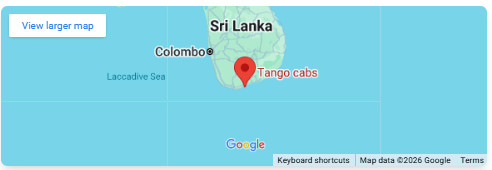
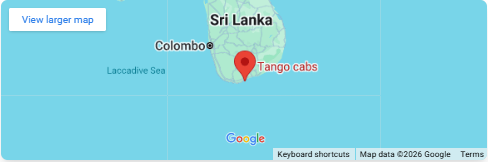
Updated Images

diff --git a/Components/ToursSection/ToursSection.jsx b/Components/ToursSection/ToursSection.jsx
@@ -12,10 +12,10 @@ const ToursSection = () => {
           <h4 className="bg-clip-text text-transparent bg-gradient-to-r from-[#e8bc74] to-[#4d7c9c] font-semibold uppercase tracking-wider">
             Our Tours
           </h4>
-          <h2 className="text-2xl lg:text-4xl font-semibold text-gray-900 leading-tight">
+          <h2 className="text-2xl lg:text-3xl font-semibold text-gray-900 leading-tight">
             Discover Sri Lanka With Tango Cabs & Tours
           </h2>
-          <p className="text-gray-600 text-lg max-w-3xl">
+          <p className="text-gray-600 text-md max-w-3xl">
             Explore the most beautiful corners of Sri Lanka with our curated
             tours and premium cab services. From serene beaches to breathtaking
             mountains, we make every journey safe, comfortable, and
@@ -25,16 +25,26 @@ const ToursSection = () => {
 
         {/* Tours Grid */}
         <div className="grid grid-cols-1 sm:grid-cols-2 lg:grid-cols-3 gap-8">
-          {tours.map((tour, index) => (
-            <div
-              key={tour.id}
-              className={`transition-transform duration-700 delay-${
-                index * 100
-              } ease-out transform hover:-translate-y-2 cupsor-pointer`}
-            >
-              <TourCard tour={tour} />
-            </div>
-          ))}
+          {tours.map((tour, index) => {
+            // Use fixed delay classes (must be in Tailwind safelist)
+            const delayClasses = [
+              "delay-0",
+              "delay-100",
+              "delay-200",
+              "delay-300",
+              "delay-400",
+            ];
+            const delayClass = delayClasses[index % delayClasses.length];
+
+            return (
+              <div
+                key={tour.id}
+                className={`transition-transform duration-700 ${delayClass} ease-out transform hover:-translate-y-2 cursor-pointer`}
+              >
+                <TourCard tour={tour} />
+              </div>
+            );
+          })}
         </div>
       </div>
     </section>

diff --git a/Components/ReviewSection/ReviewSection.jsx b/Components/ReviewSection/ReviewSection.jsx
@@ -50,14 +50,14 @@ const ReviewsSection = () => {
             Traveler Reviews
           </h4>
           <h2
-            className="text-2xl lg:text-4xl font-semibold text-gray-900 leading-tight"
+            className="text-2xl lg:text-3xl font-semibold text-gray-900 leading-tight"
             data-aos="fade-up"
             data-aos-delay="100"
           >
             Hear From Our Happy Travelers
           </h2>
           <p
-            className="text-gray-600 text-lg max-w-3xl"
+            className="text-gray-600 text-md max-w-3xl"
             data-aos="fade-up"
             data-aos-delay="200"
           >
@@ -81,7 +81,7 @@ const ReviewsSection = () => {
           {reviews.map((review, idx) => (
             <SwiperSlide key={idx}>
               <div
-                className="bg-white/80 border-2 border-gray-200 p-6 rounded-lg shadow-lg h-full flex flex-col justify-between"
+                className="bg-white/80 border-2 border-gray-200 p-6 rounded-lg shadow-lg flex flex-col justify-between min-h-[250px]"
                 data-aos="fade-up"
                 data-aos-delay={idx * 100}
               >
@@ -89,7 +89,7 @@ const ReviewsSection = () => {
                   <h3 className="font-semibold text-gray-900">{review.name}</h3>
                   <p className="text-sm text-gray-500">{review.location}</p>
                 </div>
-                <p className="text-gray-700 mb-4">{review.text}</p>
+                <p className="text-gray-700 mb-4 flex-1">{review.text}</p>
                 <div className="flex gap-1">
                   {Array.from({ length: 5 }).map((_, i) => (
                     <span
@@ -103,7 +103,7 @@ const ReviewsSection = () => {
                   ))}
                 </div>
               </div>
-              <div className="pt-18"></div>
+              <div className="pt-10"></div>
             </SwiperSlide>
           ))}
         </Swiper>

diff --git a/Components/Hero/Hero.jsx b/Components/Hero/Hero.jsx
@@ -106,20 +106,20 @@ const Hero = () => {
               {/* Content with AOS vertical animations */}
               <div className="relative z-10 flex flex-col items-center justify-center h-full text-white text-center px-6">
                 <h2
-                  className="text-2xl md:text-3xl font-semibold mb-4 bg-clip-text text-transparent bg-gradient-to-r from-[#e8bc74] to-[#4d7c9c]"
+                  className="text-2xl md:text-2sxl font-semibold mb-4 bg-clip-text text-transparent bg-gradient-to-r from-[#e8bc74] to-[#4d7c9c]"
                   data-aos="fade-up"
                 >
                   Tango Cabs & Tour
                 </h2>
                 <h1
-                  className="text-4xl md:text-6xl font-semibold mb-4"
+                  className="text-4xl md:text-5xl font-semibold mb-4"
                   data-aos="fade-up"
                   data-aos-delay="100"
                 >
                   {slide.title}
                 </h1>
                 <p
-                  className="text-base md:text-lg text-white/85 leading-7 md:leading-8 mb-6 w-[75%]"
+                  className="text-base md:text-md text-white/85 leading-7 md:leading-8 mb-6 w-[75%]"
                   data-aos="fade-up"
                   data-aos-delay="200"
                 >
@@ -127,7 +127,7 @@ const Hero = () => {
                 </p>
                 <a
                   href="/tours"
-                  className="px-6 py-2 md:px-8 md:py-3 rounded-md text-white font-semibold text-base md:text-lg
+                  className="px-6 py-2 md:px-8 md:py-2 rounded-sm text-white font-semibold text-base md:text-lg
                   bg-[linear-gradient(188deg,rgba(79,126,156,1)_0%,rgba(117,156,158,1)_54%,rgba(131,160,153,1)_64%,rgba(144,163,149,1)_70%,rgba(156,166,145,1)_79%,rgba(172,171,139,1)_89%,rgba(232,188,118,1)_100%)]
                   transition-all"
                   data-aos="fade-up"

diff --git a/Components/Nav/Nav.jsx b/Components/Nav/Nav.jsx
@@ -43,7 +43,7 @@ const Nav = () => {
                 key={item.name}
                 href={item.href}
                 className={`
-    relative text-base font-medium transition-colors
+    relative text-base md:text-base font-medium transition-colors
     after:content-[''] after:absolute after:w-0 after:h-[2px]
     after:left-0 after:-bottom-1 after:transition-all after:duration-300
     after:bg-[linear-gradient(188deg,rgba(79,126,156,1)_0%,rgba(117,156,158,1)_54%,rgba(144,163,149,1)_79%,rgba(172,171,139,1)_90%,rgba(232,188,118,1)_100%)]
@@ -65,7 +65,7 @@ const Nav = () => {
             {/* Desktop Button */}
             <a
               href="tel:+94777266518"
-              className="hidden lg:flex items-center justify-center px-6 py-2 rounded-md text-white font-semibold
+              className="hidden lg:flex items-center justify-center px-6 py-2 rounded-sm text-white font-semibold
              bg-[linear-gradient(188deg,rgba(79,126,156,1)_0%,rgba(117,156,158,1)_54%,rgba(144,163,149,1)_79%,rgba(172,171,139,1)_90%,rgba(232,188,118,1)_100%)]
              hover:opacity-90 transition"
             >
@@ -104,7 +104,7 @@ const Nav = () => {
             {/* Mobile Call Button */}
             <a
               href="tel:+94777266518"
-              className="w-full h-11 rounded-md text-white text-sm font-semibold flex items-center justify-center
+              className="w-full h-11 rounded-sm text-white text-sm font-semibold flex items-center justify-center
               bg-[linear-gradient(189deg,rgba(77,124,156,1)0%,rgba(89,129,153,1)35%,rgba(132,147,142,1)100%,rgba(232,188,116,1)100%)]
               hover:opacity-90 transition"
             >

diff --git a/Components/TourCard/TourCard.jsx b/Components/TourCard/TourCard.jsx
@@ -73,7 +73,7 @@ const TourCard = ({ tour }) => {
             )}`}
             target="_blank"
             rel="noopener noreferrer"
-            className="w-full sm:flex-1 flex items-center justify-center gap-2 px-4 py-2 rounded-md font-semibold text-white text-sm
+            className="w-full sm:flex-1 flex items-center justify-center gap-2 px-4 py-2 rounded-sm font-semibold text-white text-sm
   bg-[linear-gradient(191deg,rgba(79,126,156,1)_12%,rgba(120,157,157,1)_64%,rgba(130,160,153,1)_78%,rgba(232,188,118,1)_100%)]
   hover:opacity-90 transition"
           >
@@ -83,13 +83,15 @@ const TourCard = ({ tour }) => {
           {/* Details */}
           <Link
             href={`/tours/${tour.id}`}
-            className="w-full sm:flex-1 flex items-center justify-center border-2 border-[#4d7c9c] text-[#4d7c9c]
-      px-4 py-2 rounded-md font-semibold text-sm
-      transition-all duration-300
-      hover:text-white
-      hover:border-transparent
-      hover:bg-[linear-gradient(191deg,rgba(79,126,156,1)_12%,rgba(232,188,118,1)_100%)]"
+            className="w-full sm:flex-1 flex items-center justify-center
+             border-1 border-[#4d7c9c] text-[#4d7c9c]
+             px-4 py-2 rounded-sm font-semibold text-sm
+             transition-all duration-300
+             hover:text-white
+             hover:bg-[#4d7c9c]
+             hover:border-transparent"
           >
+            {" "}
             View Details
           </Link>
         </div>

diff --git a/Components/AboutUs/AboutUs.jsx b/Components/AboutUs/AboutUs.jsx
@@ -28,7 +28,7 @@ export default function AboutUs() {
             </h4>
 
             <h1
-              className="text-2xl lg:text-4xl font-semibold text-gray-900 leading-tight"
+              className="text-2xl lg:text-3xl font-semibold text-gray-900 leading-tight"
               data-aos="fade-up"
               data-aos-delay="100"
             >
@@ -38,7 +38,7 @@ export default function AboutUs() {
             </h1>
 
             <div
-              className="space-y-4 text-gray-600 text-lg"
+              className="space-y-4 text-gray-600 text-md"
               data-aos="fade-up"
               data-aos-delay="200"
             >
@@ -58,7 +58,7 @@ export default function AboutUs() {
 
             <a
               href="tel:+94777266518"
-              className="inline-flex items-center justify-center px-5 py-3 md:px-6 md:py-3 rounded-md text-white font-semibold text-sm md:text-base
+              className="inline-flex items-center justify-center px-5 py-3 md:px-6 md:py-3 rounded-sm text-white font-semibold text-sm md:text-base
     bg-[linear-gradient(188deg,rgba(79,126,156,1)_0%,rgba(117,156,158,1)_54%,rgba(131,160,153,1)_64%,rgba(144,163,149,1)_70%,rgba(156,166,145,1)_79%,rgba(172,171,139,1)_89%,rgba(232,188,118,1)_100%)]
     hover:bg-[linear-gradient(188deg,#4d7c9c_0%,#e8bc74_100%)]
     transition-colors duration-500"

diff --git a/Components/GetInTouchSection/GetInTouchSection.jsx b/Components/GetInTouchSection/GetInTouchSection.jsx
@@ -115,14 +115,14 @@ const GetInTouchSection = () => {
         {/* Header */}
         <div className="space-y-4 mb-12">
           <h2
-            className="text-2xl lg:text-4xl font-semibold text-gray-900 leading-tight"
+            className="text-2xl lg:text-3xl font-semibold text-gray-900 leading-tight"
             data-aos="fade-up"
             data-aos-delay="100"
           >
             Get in Touch
           </h2>
           <p
-            className="text-gray-600 text-lg max-w-3xl"
+            className="text-gray-600 text-md max-w-3xl"
             data-aos="fade-up"
             data-aos-delay="200"
           >
@@ -218,7 +218,7 @@ const GetInTouchSection = () => {
                 type="submit"
                 className="px-8 cursor-pointer py-3 md:px-12 md:py-3 text-white font-semibold text-sm md:text-lg
                   bg-[linear-gradient(189deg,rgba(77,124,156,1)_0%,rgba(89,129,153,1)_35%,rgba(132,147,142,1)_100%,rgba(232,188,116,1)_100%)]
-                  hover:opacity-90 hover:scale-[1.02] transition-transform transform rounded-lg"
+                  hover:opacity-90 hover:scale-[1.02] transition-transform transform rounded-sm"
               >
                 Send Message
               </button>

diff --git a/Components/CustomTourBookingForm/CustomTourBookingForm.jsx b/Components/CustomTourBookingForm/CustomTourBookingForm.jsx
@@ -300,7 +300,7 @@ const Input = ({ icon, label, error, touched, placeholder, ...props }) => {
         <input
           {...props}
           placeholder={placeholder}
-          className={`w-full px-4 py-3 rounded-lg border-2 outline-none transition ${
+          className={`w-full px-4 py-3 rounded-lg border-1 outline-none transition ${
             showError
               ? "border-red-500 bg-red-50"
               : "border-gray-300 focus:border-[#4d7c9c] focus:ring-[#4d7c9c]/20"
@@ -333,7 +333,7 @@ const Textarea = ({ label, error, touched, placeholder, ...props }) => {
           {...props}
           placeholder={placeholder}
           rows={3}
-          className={`w-full px-4 py-3 rounded-lg border-2 outline-none transition resize-none ${
+          className={`w-full px-4 py-3 rounded-lg border-1 outline-none transition resize-none ${
             showError
               ? "border-red-500 bg-red-50"
               : "border-gray-300 focus:border-[#4d7c9c] focus:ring-[#4d7c9c]/20"

diff --git a/Components/Loader/Loader.jsx b/Components/Loader/Loader.jsx
@@ -18,7 +18,7 @@ const Loader = () => {
 
   return (
     <div className="fixed inset-0 bg-white flex items-center justify-center z-[9999]">
-      <div className="relative w-48 h-48 flex items-center justify-center">
+      <div className="relative w-40 h-40 flex items-center justify-center">
         {/* Logo */}
         <Image
           src="/logo.jpeg" // replace with your logo path
@@ -28,7 +28,7 @@ const Loader = () => {
         />
 
         {/* Spinning ring */}
-        <span className="absolute w-48 h-48 rounded-full border-4 border-[#2e4a5e] border-t-transparent animate-spin"></span>
+        <span className="absolute w-40 h-40 rounded-full border-4 border-[#2e4a5e] border-t-transparent animate-spin"></span>
       </div>
     </div>
   );

diff --git a/Components/VehiclesSection/VehiclesSection.jsx b/Components/VehiclesSection/VehiclesSection.jsx
@@ -93,14 +93,14 @@ const VehiclesSection = () => {
             Our Vehicles
           </h4>
           <h2
-            className="text-2xl lg:text-4xl font-semibold text-gray-900 leading-tight"
+            className="text-2xl lg:text-3xl font-semibold text-gray-900 leading-tight"
             data-aos="fade-up"
             data-aos-delay="100"
           >
             Premium Cars & Cabs For Your Journey
           </h2>
           <p
-            className="text-gray-600 text-lg max-w-3xl"
+            className="text-gray-600 text-md max-w-3xl"
             data-aos="fade-up"
             data-aos-delay="200"
           >

diff --git a/Components/WhatWeOffer/WhatWeOffer.jsx b/Components/WhatWeOffer/WhatWeOffer.jsx
@@ -68,7 +68,7 @@ export default function WhatWeOffer() {
           </h4>
 
           <h2
-            className="text-2xl lg:text-4xl font-semibold text-gray-900 mt-3"
+            className="text-2xl lg:text-3xl font-semibold text-gray-900 mt-3"
             data-aos="fade-up"
             data-aos-delay="100"
           >
@@ -76,7 +76,7 @@ export default function WhatWeOffer() {
           </h2>
 
           <p
-            className="text-gray-600 text-lg mt-4"
+            className="text-gray-600 text-md mt-4"
             data-aos="fade-up"
             data-aos-delay="200"
           >

diff --git a/Components/TourHeader/TourHeader.jsx b/Components/TourHeader/TourHeader.jsx
@@ -3,8 +3,8 @@
 export default function TourHeader({ title, shortDescription }) {
   return (
     <div className="space-y-4">
-      <h1 className="text-3xl lg:text-4xl font-bold text-gray-900">{title}</h1>
-      <p className="text-lg text-gray-700">{shortDescription}</p>
+      <h1 className="text-3xl lg:text-3xl font-bold text-gray-900">{title}</h1>
+      <p className="text-md text-gray-700">{shortDescription}</p>
     </div>
   );
 }
